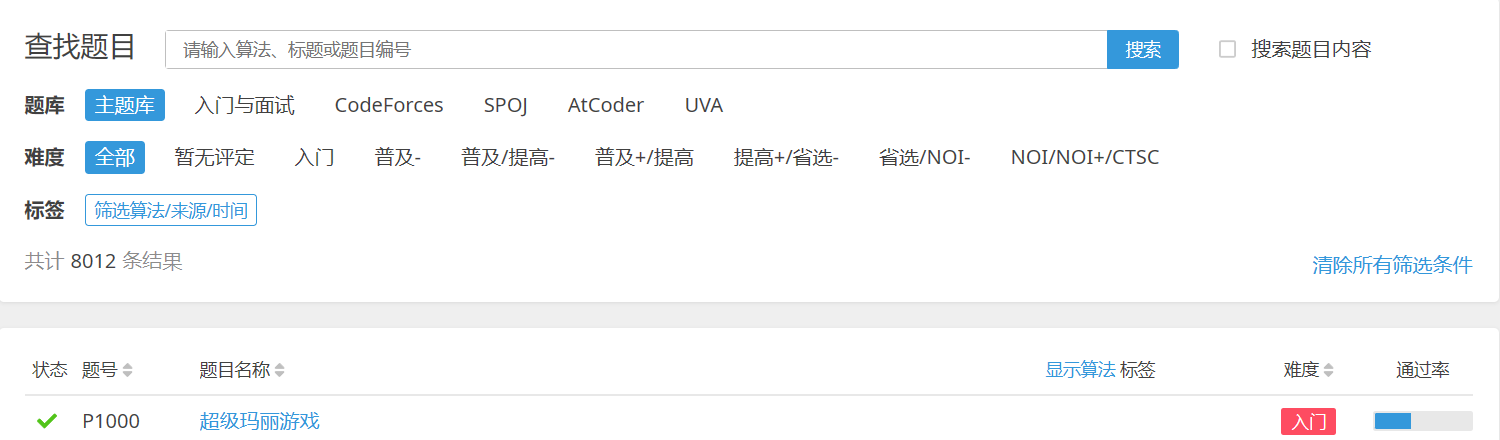
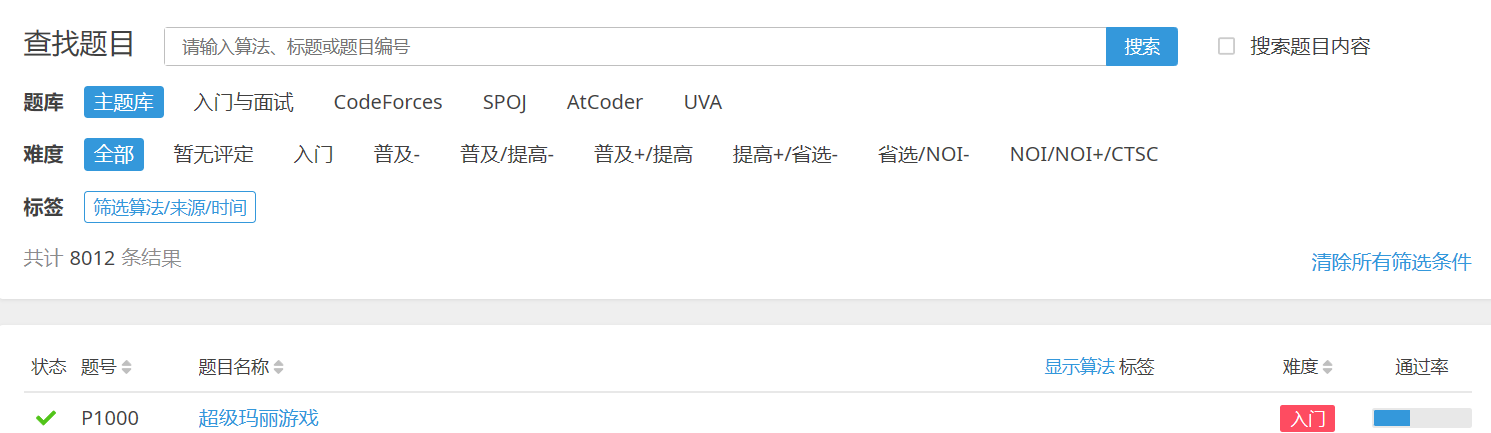
fix: 一张图

diff --git a/3.编程思维体系构建/3.2.2手把手教你学算法——如何使用OJ（Online Judge）.md b/3.编程思维体系构建/3.2.2手把手教你学算法——如何使用OJ（Online Judge）.md
@@ -16,7 +16,7 @@
 
 点开题库，我们看见以下界面
 
-![](static/MUEWbTv6QoShVRxmgTicEjMbnHz.PNG)
+![](static/MUEWbTv6QoShVRxmgTicEjMbnHz.jpg)
 
 在上方我们可以筛选我们想要的题目，接下来我们点开 P1000 为例
 
